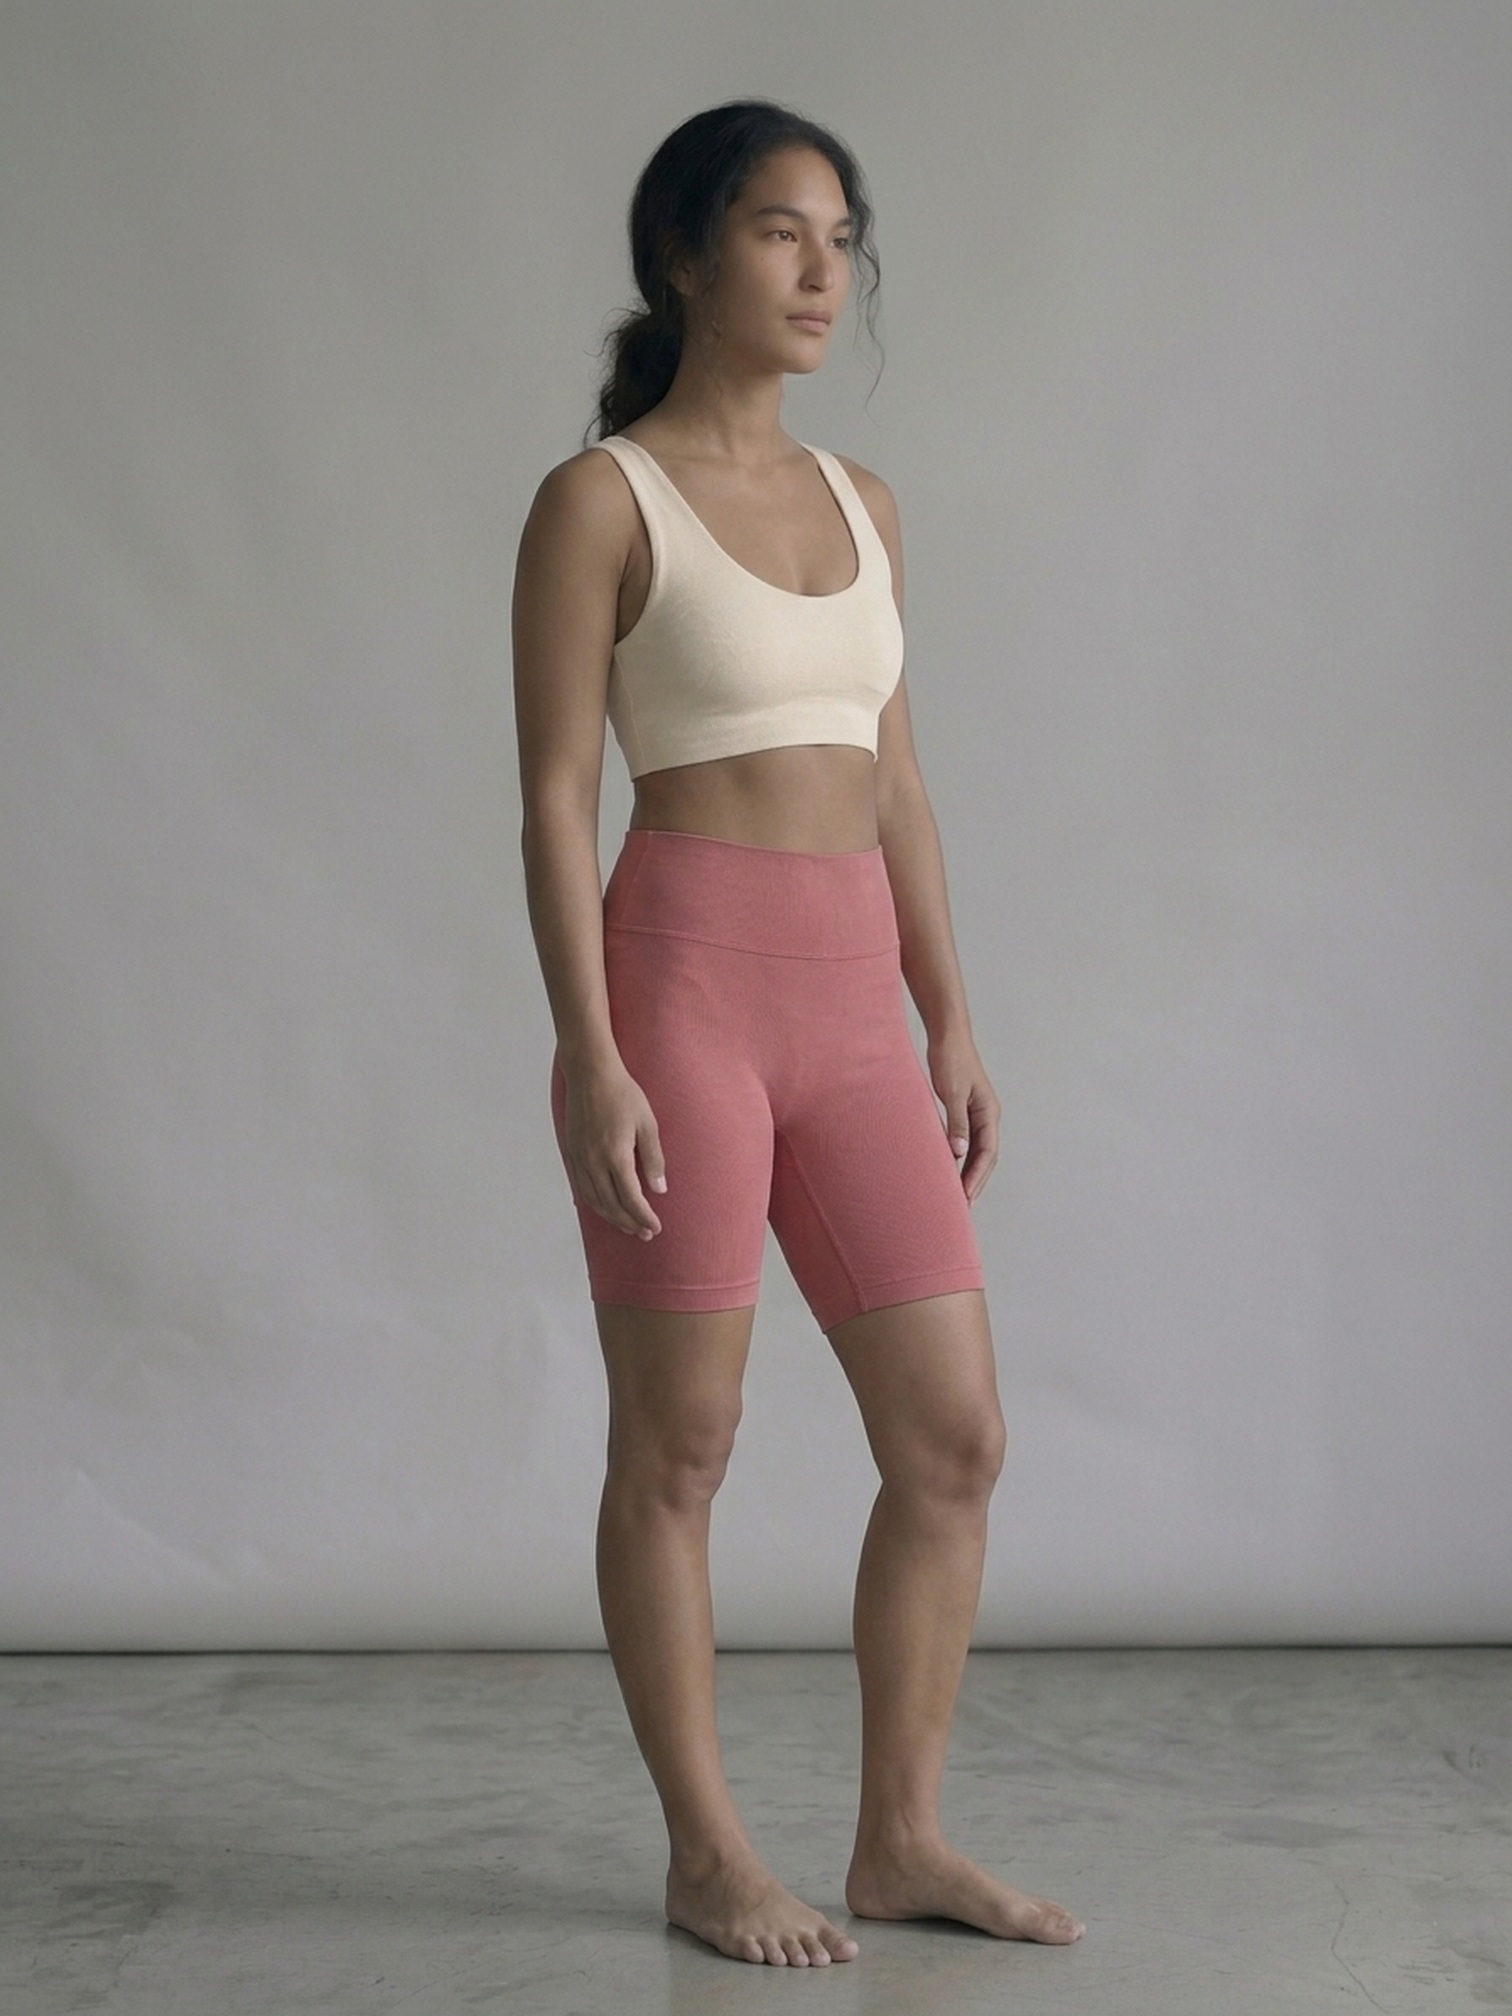
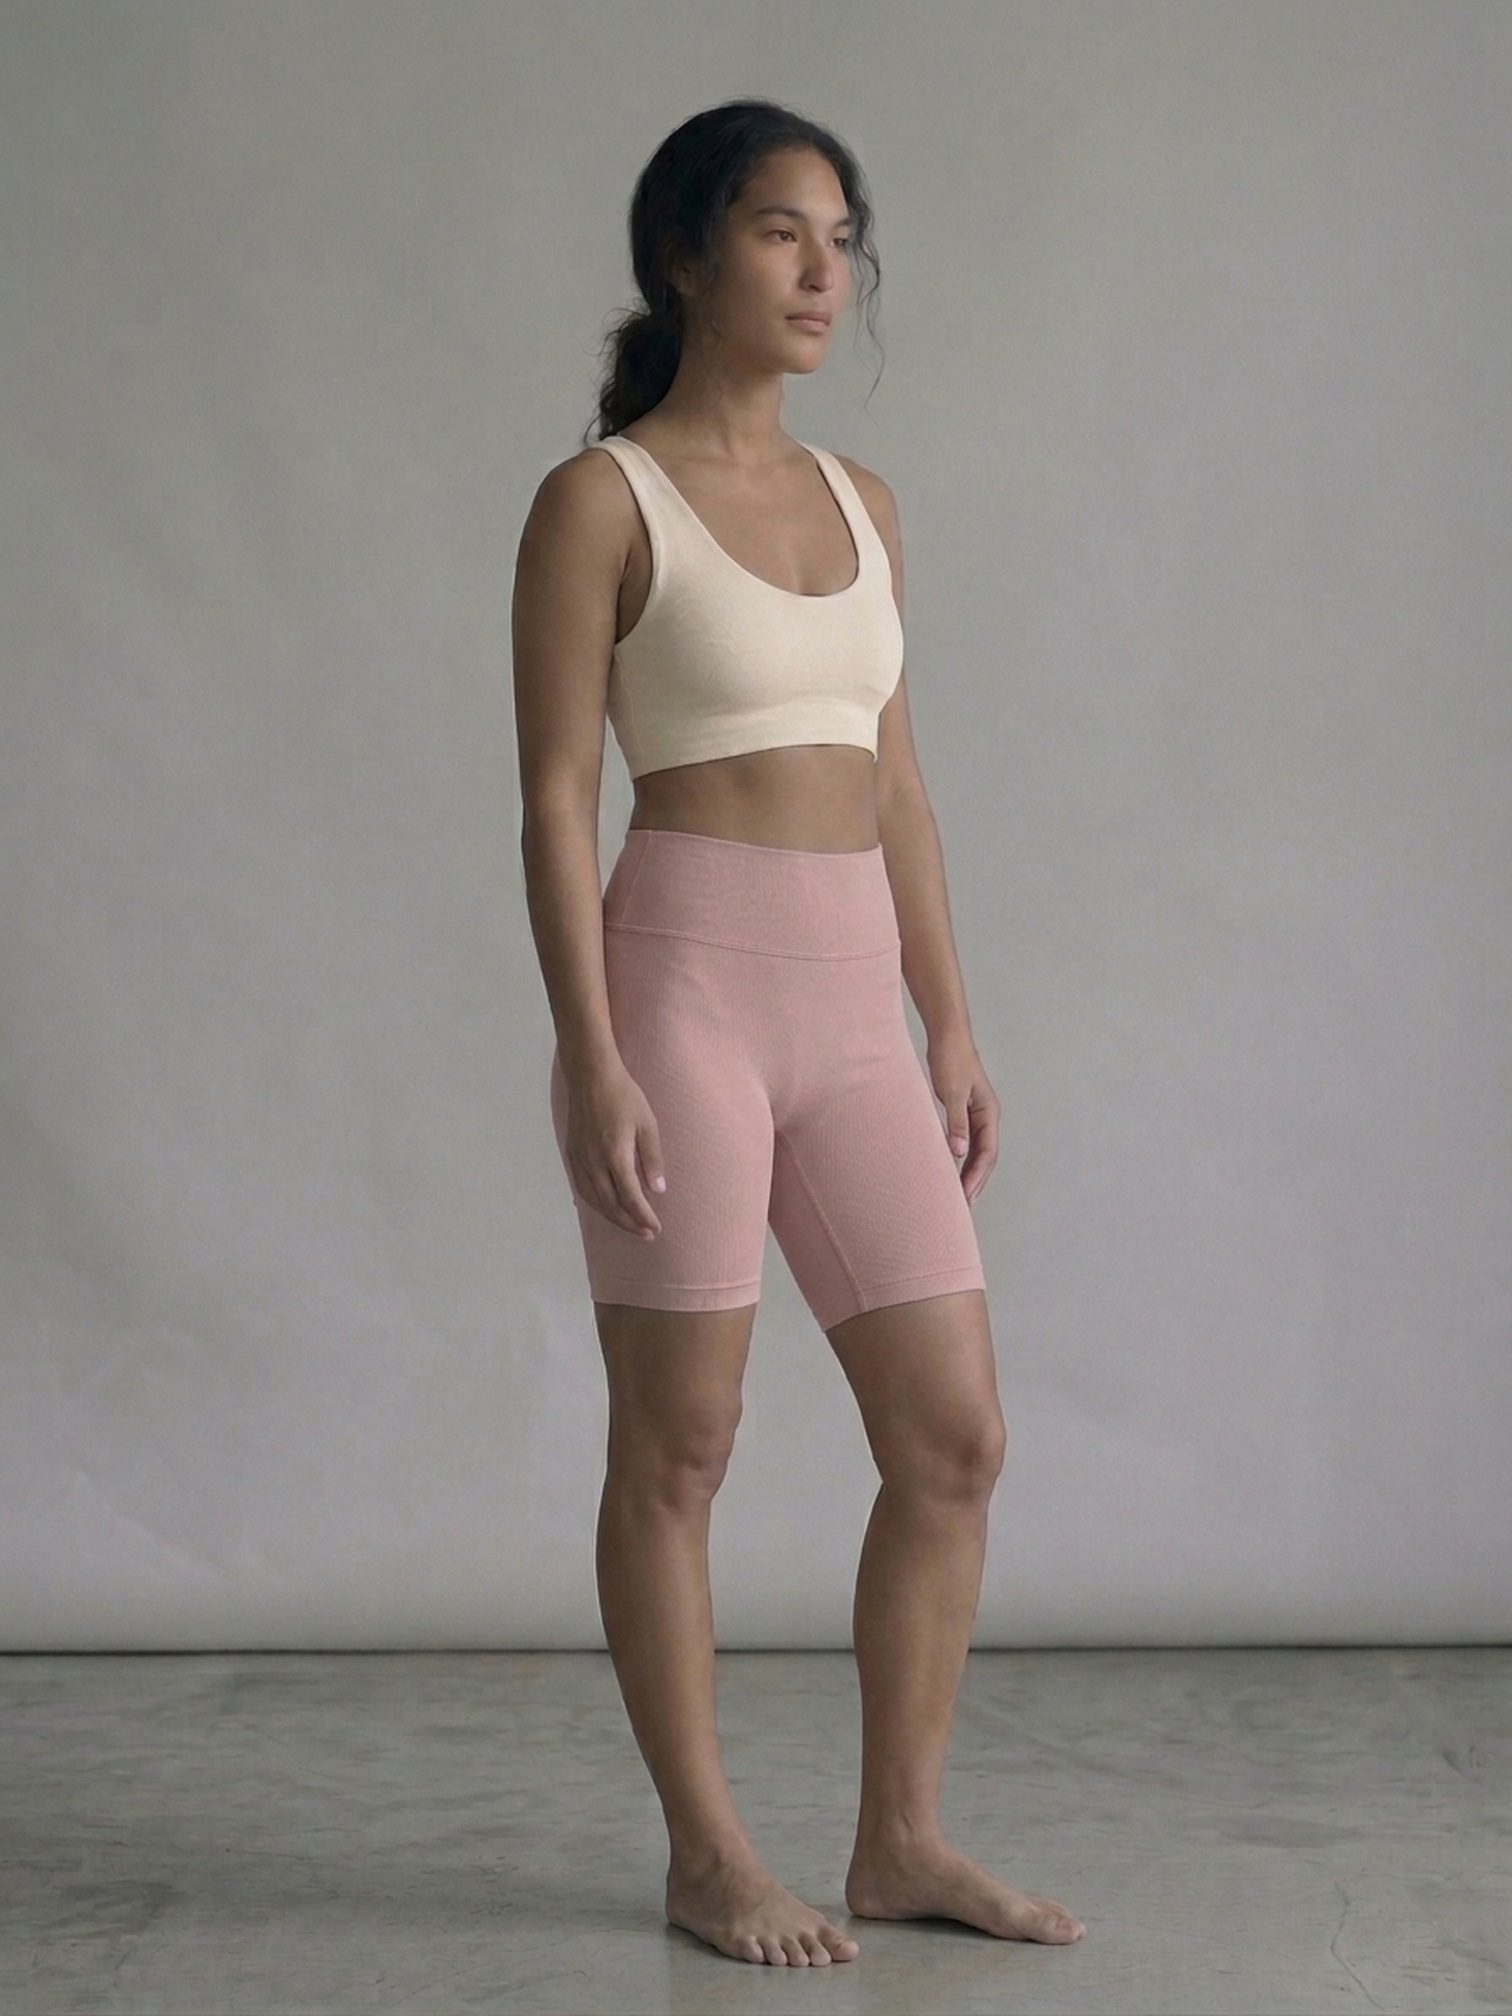
Lighten the short pink colorway for better contrast against maroon
The pink shorts photo and swatch hex (#c79a9d) were too close in value
to maroon (#5b2430) — rgb distance 193.6 / luminance diff 114, both the
lowest of any colorway pair on the site (others range 228-310 / 135-184).
Next to the higher-contrast pairs elsewhere (dark neutral + light/warm
tone), the short swatches read as muddy and unappealing.

Regenerated the pink shorts in the same Gemini thread (same standing
pose, same cream top) with a distinctly lighter, pale dusty-rose color,
and updated the swatch hex to #dcb9b6 to match — now in line with the
other pairs' contrast range.

Claude-Session: https://claude.ai/code/session_019ptV41kxtywRMGKV162Qyj

Changed region(s): [[0.373, 0.4062, 0.6528, 0.6562]]

diff --git a/assets/products.js b/assets/products.js
@@ -90,7 +90,7 @@ window.COVERLINE_PRODUCTS = [
     proof: "Passes the squat test. Longer than the usual gym short.",
     colors: [
       { key: "maroon", label: "Maroon", hex: "#5b2430", image: "/assets/product-images/short-maroon.jpg?v=18" },
-      { key: "pink", label: "Pink", hex: "#c79a9d", image: "/assets/product-images/short-pink.jpg?v=18" }
+      { key: "pink", label: "Pink", hex: "#dcb9b6", image: "/assets/product-images/short-pink.jpg?v=19" }
     ],
     image: "/assets/product-images/short-maroon.jpg?v=18",
     swatch: function(){ return '<rect width="300" height="400" fill="var(--paper-raised)"/><path d="M0,270 C 100,320 200,240 300,280 L300,400 L0,400 Z" fill="var(--accent-2)" opacity=".5"/><path d="M0,170 C 100,220 200,120 300,180" fill="none" stroke="var(--accent)" stroke-width="1"/>'; }

diff --git a/product.html b/product.html
@@ -73,7 +73,7 @@
   </div>
 </footer>
 
-<script src="/assets/products.js?v=17"></script>
+<script src="/assets/products.js?v=18"></script>
 <script src="/assets/sizecharts.js?v=2"></script>
 <script src="/assets/reviews.js?v=1"></script>
 <script src="/assets/config.js?v=2"></script>

diff --git a/index.html b/index.html
@@ -99,7 +99,7 @@
   </div>
 </footer>
 
-<script src="/assets/products.js?v=17"></script>
+<script src="/assets/products.js?v=18"></script>
 <script src="/assets/config.js?v=2"></script>
 <script src="/assets/cart.js?v=4"></script>
 <script>
